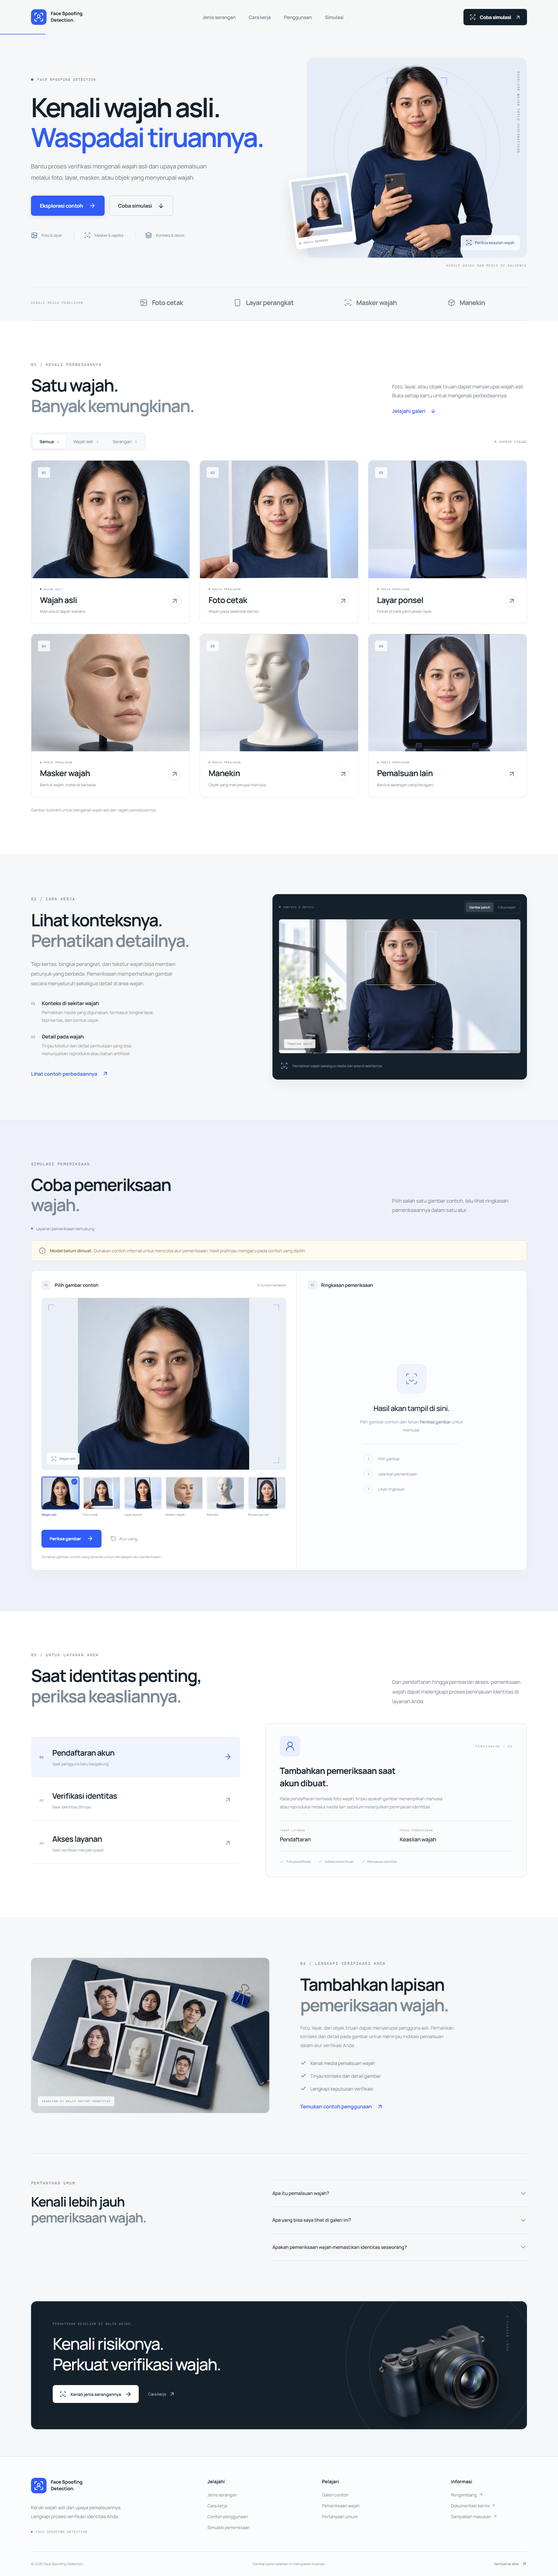
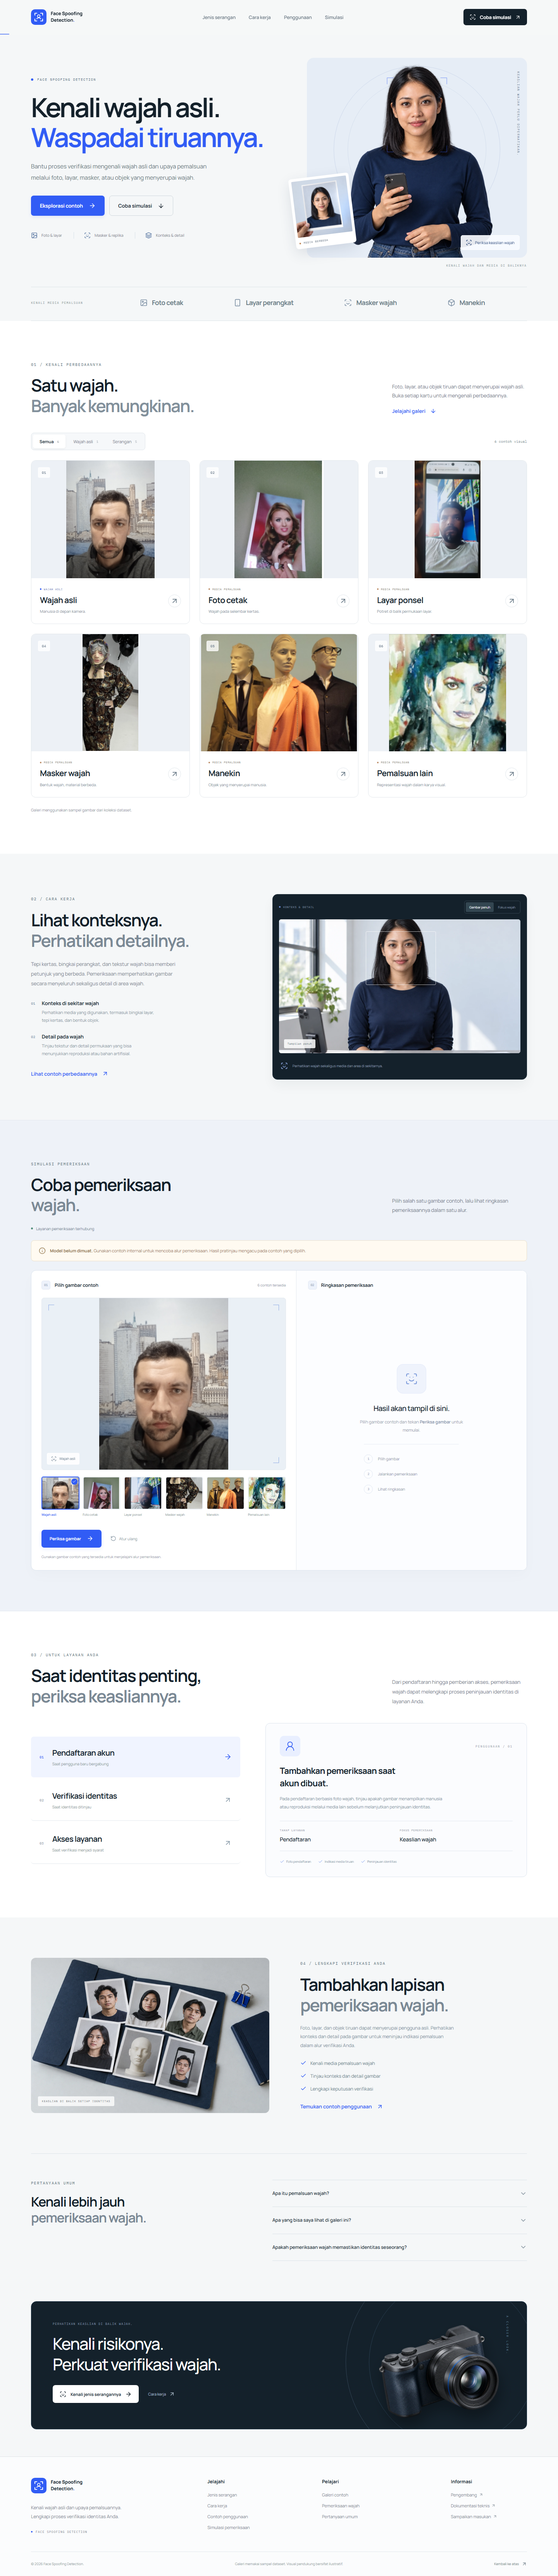
Use notebook dataset samples in gallery and simulation

Changed region(s): [[0.0312, 0.1559, 0.9688, 0.3118], [0.0625, 0.4989, 0.5312, 0.5925]]

diff --git a/frontend/src/data.ts b/frontend/src/data.ts
@@ -6,7 +6,9 @@ export const galleryItems = [
     id: "realperson",
     name: "Wajah asli",
     category: "real",
-    image: "02-real-person",
+    image: "dataset-realperson",
+    width: 225,
+    height: 299,
     caption: "Manusia di depan kamera.",
     description: "Wajah manusia yang menjadi subjek pemeriksaan identitas.",
     detail:
@@ -22,7 +24,9 @@ export const galleryItems = [
     id: "fake_printed",
     name: "Foto cetak",
     category: "spoof",
-    image: "03-printed-photo",
+    image: "dataset-fake_printed",
+    width: 220,
+    height: 288,
     caption: "Wajah pada selembar kertas.",
     description:
       "Foto wajah yang dicetak dapat digunakan sebagai media serangan presentasi.",
@@ -39,7 +43,9 @@ export const galleryItems = [
     id: "fake_screen",
     name: "Layar ponsel",
     category: "spoof",
-    image: "04-screen-replay",
+    image: "dataset-fake_screen",
+    width: 168,
+    height: 299,
     caption: "Potret di balik permukaan layar.",
     description:
       "Wajah yang ditampilkan melalui perangkat merupakan bentuk serangan berbasis layar.",
@@ -56,7 +62,9 @@ export const galleryItems = [
     id: "fake_mask",
     name: "Masker wajah",
     category: "spoof",
-    image: "05-silicone-mask",
+    image: "dataset-fake_mask",
+    width: 141,
+    height: 296,
     caption: "Bentuk wajah, material berbeda.",
     description:
       "Replika wajah berupa masker menjadi kategori serangan tersendiri.",
@@ -73,7 +81,9 @@ export const galleryItems = [
     id: "fake_mannequin",
     name: "Manekin",
     category: "spoof",
-    image: "06-mannequin",
+    image: "dataset-fake_mannequin",
+    width: 282,
+    height: 212,
     caption: "Objek yang menyerupai manusia.",
     description: "Kepala atau figur artifisial yang menyerupai wajah manusia.",
     detail:
@@ -89,15 +99,17 @@ export const galleryItems = [
     id: "fake_unknown",
     name: "Pemalsuan lain",
     category: "spoof",
-    image: "07-mixed-presentation",
-    caption: "Bentuk serangan yang beragam.",
-    description: "Pemalsuan wajah dapat menggunakan gabungan beberapa media.",
+    image: "dataset-fake_unknown",
+    width: 162,
+    height: 162,
+    caption: "Representasi wajah dalam karya visual.",
+    description: "Wajah dapat direpresentasikan dalam bentuk nonfotografis.",
     detail:
-      "Contoh ini menggabungkan potongan foto dan layar. Bentuk pemalsuan dapat beragam, sehingga detail wajah perlu dilihat bersama media dan konteks di sekitarnya.",
+      "Contoh ini menampilkan wajah dalam bentuk lukisan. Goresan warna, tekstur karya visual, dan bentuk wajah menjadi pembeda dari foto manusia. Kategori ini mencakup variasi representasi lainnya.",
     cues: [
-      "Kombinasi beberapa media",
-      "Pola yang tidak seragam",
-      "Konteks visual yang beragam",
+      "Goresan dan tekstur lukisan",
+      "Representasi wajah nonfotografis",
+      "Detail warna dan bentuk wajah",
     ],
     number: "06",
   },

diff --git a/frontend/src/components/Gallery.tsx b/frontend/src/components/Gallery.tsx
@@ -103,8 +103,8 @@ function GalleryDetail({
           <motion.img
             key={item.id}
             src={image(item.image)}
-            width={1254}
-            height={1254}
+            width={item.width}
+            height={item.height}
             alt={item.name}
             initial={{ opacity: 0, scale: reduced ? 1 : 1.025 }}
             animate={{ opacity: 1, scale: 1 }}
@@ -112,7 +112,7 @@ function GalleryDetail({
             transition={{ duration: reduced ? 0 : 0.22 }}
           />
         </AnimatePresence>
-        <span className="detail-image-note">ILUSTRASI TAMPILAN WAJAH</span>
+        <span className="detail-image-note">SAMPEL DATASET</span>
       </div>
       <div className="detail-copy">
         <span className="eyebrow">KENALI TAMPILANNYA / {item.number}</span>
@@ -268,8 +268,8 @@ export function Gallery() {
                 <div className="card-photo">
                   <img
                     src={image(item.image)}
-                    width={1254}
-                    height={1254}
+                    width={item.width}
+                    height={item.height}
                     loading="lazy"
                     decoding="async"
                     alt={item.caption}
@@ -300,7 +300,7 @@ export function Gallery() {
           </AnimatePresence>
         </motion.div>
         <p className="gallery-footnote">
-          Gambar ilustratif untuk mengenali wajah asli dan ragam pemalsuannya.
+          Galeri menggunakan sampel gambar dari koleksi dataset.
         </p>
         <AnimatePresence>
           {active !== null && (

diff --git a/frontend/src/App.tsx b/frontend/src/App.tsx
@@ -597,7 +597,7 @@ function Questions() {
     },
     {
       title: "Apa yang bisa saya lihat di galeri ini?",
-      copy: "Anda dapat membandingkan ilustrasi wajah asli dengan foto cetak, layar, masker, manekin, dan presentasi lainnya. Pilih kartu untuk melihat detail. Galeri ini tidak mengunggah atau memeriksa foto pribadi Anda.",
+      copy: "Anda dapat membandingkan sampel wajah asli dengan foto cetak, layar, masker, manekin, dan representasi lainnya dari dataset. Pilih kartu untuk melihat detail. Galeri ini tidak mengunggah atau memeriksa foto pribadi Anda.",
     },
     {
       title: "Apakah pemeriksaan wajah memastikan identitas seseorang?",
@@ -751,7 +751,10 @@ function Footer() {
           </div>
           <div className="footer-bottom">
             <p>© {new Date().getFullYear()} Face Spoofing Detection.</p>
-            <p>Gambar pada halaman ini merupakan ilustrasi.</p>
+            <p>
+              Galeri memakai sampel dataset. Visual pendukung bersifat
+              ilustratif.
+            </p>
             <a href="#top">
               Kembali ke atas
               <ArrowUpRight size={14} />

diff --git a/frontend/e2e/landing.spec.ts b/frontend/e2e/landing.spec.ts
@@ -1,6 +1,6 @@
 import { expect, test } from "@playwright/test";
 
-test("all ten visual assets load and the page remains within the viewport", async ({
+test("dataset samples and supporting assets load within the viewport", async ({
   page,
 }) => {
   const errors: string[] = [];
@@ -23,7 +23,8 @@ test("all ten visual assets load and the page remains within the viewport", asyn
       .toBe(true);
     assets.add((await item.getAttribute("src"))!);
   }
-  expect(assets.size).toBe(10);
+  expect(assets.size).toBe(11);
+  expect([...assets].filter((src) => src.includes("/dataset-")).length).toBe(6);
   expect(
     await page.evaluate(
       () => document.documentElement.scrollWidth <= innerWidth,

diff --git a/frontend/src/styles/gallery.css b/frontend/src/styles/gallery.css
@@ -97,7 +97,7 @@
 .card-photo > img {
   width: 100%;
   height: 100%;
-  object-fit: cover;
+  object-fit: contain;
   transition:
     transform 0.65s var(--ease),
     filter 0.5s;
@@ -264,7 +264,7 @@
   width: 100%;
   height: 100%;
   min-height: 540px;
-  object-fit: cover;
+  object-fit: contain;
   position: absolute;
   inset: 0;
 }

diff --git a/frontend/src/components/Simulation.tsx b/frontend/src/components/Simulation.tsx
@@ -28,8 +28,8 @@ const initialExamples: Example[] = galleryItems.map((item) => ({
   id: item.id,
   title: item.name,
   image_name: item.image,
-  width: 1254,
-  height: 1254,
+  width: item.width,
+  height: item.height,
   summary: item.description,
   observations: [...item.cues],
 }));

diff --git a/backend/tests/test_api.py b/backend/tests/test_api.py
@@ -46,7 +46,8 @@ def test_each_internal_example_has_a_deterministic_reference_result(label):
         assert data["metadata"]["provider"] == "fallback"
         assert data["metadata"]["result_source"] == "reference_example"
         assert data["metadata"]["model_loaded"] is False
-        assert data["image"]["width"] == 1254
+        assert data["image"]["width"] > 0 and data["image"]["height"] > 0
+        assert data["image"]["image_name"].startswith("dataset-")
         assert len(data["observations"]) == 3
         second = client.post("/api/v1/analyze", json={"example_id": label}).json()
         assert second["label"] == data["label"]

diff --git a/README.md b/README.md
@@ -2,20 +2,11 @@
 
 A face presentation-attack detection project with a client-facing landing page and research notebooks using DINOv3, ConvNeXt, and FSFM.
 
-![Face Spoofing Detection landing page](docs/images/landing-desktop.png)
-
-<details>
-<summary>Full landing page preview</summary>
-
-![Full landing page with interactive gallery and simulation](docs/images/landing-full.png)
-
-</details>
-
 ## Explore the website
 
 The landing page focuses on identity-verification needs: recognizing presentation attacks, examining image context and facial detail, and exploring registration, identity-review, and service-access use cases. The gallery has animated filters, six image cards, and a detail viewer with previous/next controls, arrow-key navigation, Escape, focus management, and a mobile layout. Experiment details remain in the research documentation.
 
-All ten photographic assets are synthetic editorial illustrations. Gallery labels explain the examples; they are not model predictions. The landing page and gallery render independently of Python and GPUs. The simulation section calls a lightweight API using only internal examples; no user uploads are accepted.
+The gallery and simulation use six dataset samples recovered from embedded outputs in the original cleaning notebook. The PNG excerpts and lossless WebP versions retain those saved pixels; they are not the original full-resolution JPEG files. Labels follow the notebook and are not new model predictions. See the [sample provenance](docs/assets/dataset/README.md). Hero and supporting visuals remain editorial illustrations. The simulation calls a lightweight API using internal examples only; no user uploads are accepted.
 
 ```bash
 # Download code without the large checkpoint binaries.
@@ -43,12 +34,8 @@ $env:FSD_ENABLE_MODEL = '0'
 
 API docs: **http://127.0.0.1:8301/docs**. See [backend setup](backend/README.md) and the [model integration contract](docs/api.md). The real-model adapter remains a separate integration step; this service includes an explicit loading gate and reference fallback.
 
-![Interactive class gallery](docs/images/landing-gallery.png)
-
 <details>
-<summary>Mobile preview</summary>
-
-![Mobile landing page](docs/images/landing-mobile.png)
+<summary>Mobile simulation preview</summary>
 
 ![Mobile simulation](docs/images/simulation-mobile.png)
 
@@ -65,7 +52,7 @@ Face-Spoofing-Detection/
 │   │   ├── data.ts            # Gallery descriptions and client use cases
 │   │   └── App.tsx
 │   ├── public/
-│   │   ├── assets/images/     # Ten optimized WebP assets
+│   │   ├── assets/images/     # Dataset samples and supporting WebP assets
 │   │   └── brand/             # Native SVG mark / favicon
 │   └── e2e/                   # Desktop and mobile interaction tests
 ├── backend/
@@ -80,7 +67,7 @@ Face-Spoofing-Detection/
     ├── methodology.md         # Research, environment, data, and notebook guide
     ├── development.md         # Frontend setup and verification
     ├── api.md                 # API / fallback / future predictor contract
-    ├── assets/                # Placement guide, manifest, and exact prompts
+    ├── assets/                # Dataset provenance, placement, manifests, prompts
     └── images/                # Screenshots of the running website
 ```
 
@@ -114,4 +101,4 @@ The production build is emitted to `frontend/dist/`. A static host must provide 
 
 ## Visual assets
 
-See the [asset placement guide](docs/assets/README.md), [manifest](docs/assets/manifest.json), and [exact generation prompts](docs/assets/prompts.md). The website uses approximately 1.3 MB of WebP imagery, with true alpha preserved for the hero portrait and camera.
+See the [asset placement guide](docs/assets/README.md), [dataset provenance manifest](docs/assets/dataset/manifest.json), and [original editorial generation prompts](docs/assets/prompts.md). The six recovered dataset WebPs total about 324 KB. True alpha is preserved for the editorial hero portrait and camera. Unused editorial gallery prototypes are retained as design-source assets, while the live gallery and simulation use only the dataset-derived samples.

diff --git a/docs/assets/README.md b/docs/assets/README.md
@@ -1,20 +1,22 @@
 # Website asset placement
 
-These ten photographic assets were generated separately with built-in image_gen for this landing page. They are synthetic editorial material, not dataset samples, model predictions, or evaluation evidence. The original PNG files are retained in the user's Downloads asset package; the repository includes the optimized WebP deliverables.
+The live gallery and simulation use six dataset-derived samples under `frontend/public/assets/images/dataset-*.webp`. They were recovered from saved notebook visualizations; see [sample provenance and limitations](dataset/README.md) and the [manifest](dataset/manifest.json). The PNG excerpts preserve the available notebook pixels and are encoded losslessly as WebP. The original dataset JPEG files were not found in the checkout.
+
+The editorial asset set below was generated separately with built-in image_gen. Hero and supporting visuals still use it; the generated class-gallery prototypes are retained as design-source assets. They are not presented as dataset samples or model predictions.
 
 | Asset | Placement and purpose |
 |---|---|
 | `01-hero-portrait` | Transparent main hero portrait, with a decorative framing overlay in CSS |
-| `02-real-person` | Genuine-class card and detail viewer; identity reference for related assets |
-| `03-printed-photo` | Small hero comparison and printed-photo gallery card / detail |
-| `04-screen-replay` | Screen-presentation card / detail |
-| `05-silicone-mask` | Mask card / detail |
-| `06-mannequin` | Mannequin card / detail |
-| `07-mixed-presentation` | Other-presentation card / detail; one mixed-media illustration |
+| `02-real-person` | Archived gallery prototype; identity reference for related editorial assets |
+| `03-printed-photo` | Small editorial hero comparison; no longer used by the gallery |
+| `04-screen-replay` | Archived screen-presentation gallery prototype |
+| `05-silicone-mask` | Archived mask gallery prototype |
+| `06-mannequin` | Archived mannequin gallery prototype |
+| `07-mixed-presentation` | Archived mixed-media gallery prototype |
 | `08-dataset-archive` | Verification-benefits section, illustrating different faces and presentation media |
 | `09-dual-view-context` | Full-image and face-framing toggle in the methods section |
 | `10-camera-cutout` | Transparent camera accent in the closing section |
 
-The six gallery images are interactive cards with category filtering, a detail dialog, and previous/next navigation. The method illustration changes framing through CSS/Motion, not through an actual face detector. The hero frame is decorative. The fake_unknown class is not restricted to the mixed-media construction illustrated here.
+The six dataset gallery images are interactive cards with category filtering, a detail dialog, and previous/next navigation. Their full framing is preserved with `object-fit: contain`; they are not recreated or restored using AI. The `fake_unknown` sample now shows the painting present in the notebook, and its text describes that representation. The generated method illustration changes framing through CSS/Motion, not through an actual face detector. The hero frame is decorative.
 
-Image paths are under `frontend/public/assets/images/`. The [manifest](manifest.json) records dimensions, file sizes, alpha, and placement. [Prompts](prompts.md) record the complete generation instructions. Assets 01 and 10 retain genuine transparency in WebP. The native SVG logo / favicon is code-authored under `frontend/public/brand/`.
+Image paths are under `frontend/public/assets/images/`. The [editorial manifest](manifest.json) records the original generated set; its prompt history remains in [prompts](prompts.md). The separate [dataset manifest](dataset/manifest.json) records source notebook commit, filenames, plot hashes, crop coordinates, resolutions, and output hashes. Editorial assets 01 and 10 retain genuine transparency. The native SVG logo / favicon is code-authored under `frontend/public/brand/`.

diff --git a/docs/assets/dataset/README.md b/docs/assets/dataset/README.md
@@ -1,0 +1,18 @@
+# Dataset-derived gallery and simulation images
+
+Six samples recovered directly from embedded PNG visualizations in [the original notebook](https://github.com/Ditt-A/Face-Spoofing-Detection/blob/713802894934b6b4266466944634ff5a83af0bd7/Data_Cleaning.ipynb). No notebook cells or ML models were executed.
+
+| Class | Filename shown in source | Extracted resolution | Cell / output (zero based) |
+|---|---|---|---|
+| realperson | real_194.jpg | 225 × 299 | 33 / 6 |
+| fake_printed | printed_088.jpg | 220 × 288 | 35 / 3 |
+| fake_screen | screen_219.jpg | 168 × 299 | 33 / 4 |
+| fake_mask | mask_042.jpg | 141 × 296 | 35 / 2 |
+| fake_mannequin | mannequin_147.jpg | 282 × 212 | 35 / 1 |
+| fake_unknown | unknown_338.jpeg | 162 × 162 | 16 / 0 |
+
+The PNG files here preserve the recovered pixels. The frontend uses lossless WebP versions under frontend/public/assets/images/dataset-*.webp. Pixel equality between the PNG and WebP was checked. The manifest records the original notebook commit/blob, source-plot hashes, crop rectangles, source filenames, and output hashes.
+
+These are excerpts of notebook plots, not recovered original JPEG files. Their resolution is limited by the saved visualization, and they have not been enlarged or restored with AI. The source labels are retained from the notebook; samples shown in a centroid-anomaly audit must not be treated as independently verified ground truth. The default simulation continues to show reference previews with a model-not-loaded notice.
+
+Editorial hero and supporting imagery remain separate generated assets.

diff --git a/docs/api.md b/docs/api.md
@@ -2,6 +2,8 @@
 
 The UI accepts only the six internal example IDs. It displays a clear model-not-loaded notice and reference-result preview when the service uses fallback. There is no upload control, file-upload route, user-selectable scenario parameter, or remote image URL parameter.
 
+The internal images are dataset excerpts recovered from the original notebook's saved visualizations. [Provenance](assets/dataset/README.md) records their source filenames, original notebook commit, crop rectangles, and resolution limitations. Fallback labels preserve the notebook's class labels, including examples from an anomaly audit; they are not independently verified ground truth.
+
 ## API contract
 
 `GET /api/v1/examples` returns `{"examples": [...]}`. Every item contains `id`, `title`, `image_name`, `width`, `height`, `summary`, and `observations`. `image_name` points to a local WebP served by the frontend.

diff --git a/backend/README.md b/backend/README.md
@@ -1,6 +1,6 @@
 # Face Spoofing Detection API
 
-A small FastAPI service for the website's internal-example simulation. By default it runs a reference fallback, never imports an ML runtime, and never reads model checkpoints. It does not accept image uploads or remote image URLs.
+A small FastAPI service for the website's internal-example simulation. Its six examples now point to dataset images recovered from saved notebook visualizations; see [provenance](../docs/assets/dataset/README.md). By default it runs a reference fallback, never imports an ML runtime, and never reads model checkpoints. It does not accept image uploads or remote image URLs.
 
 ## Start locally
 
